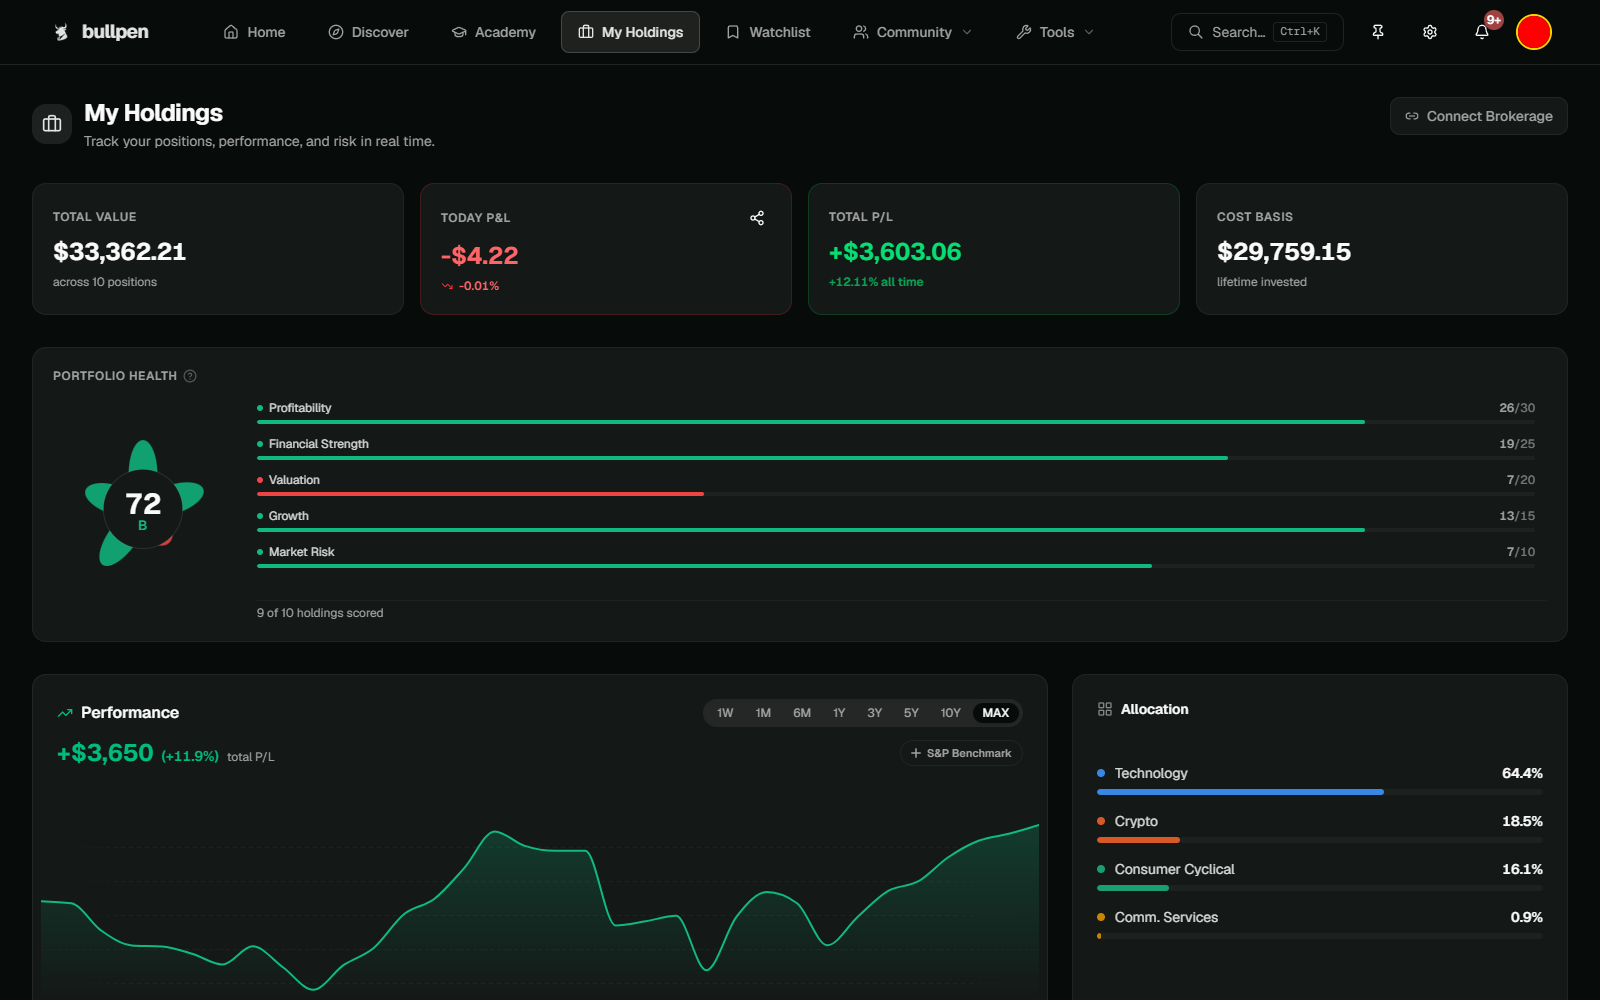
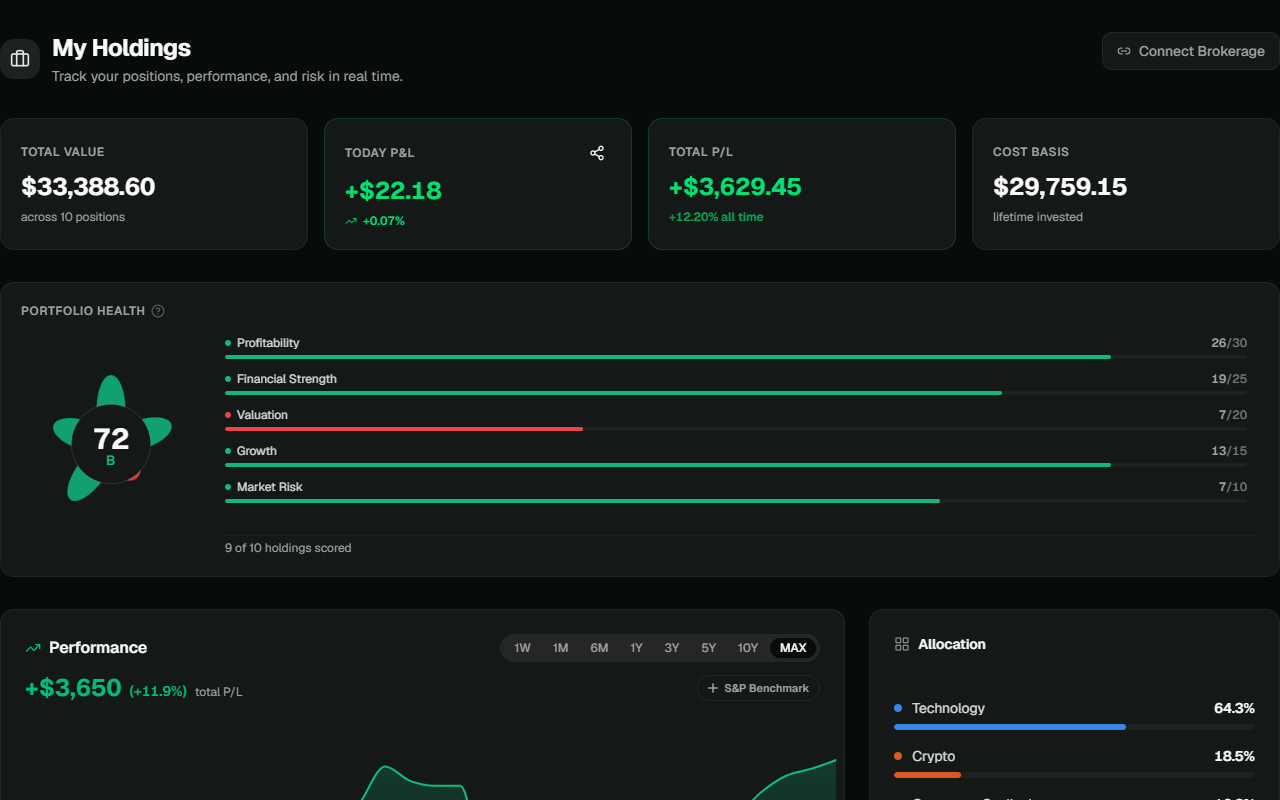
feat(landing): recapture the screenshots without app chrome, and larger
The first set was shot at 1600x1000 (one at 1920x1200) with the full app
navigation in frame. Displayed at ~640px in a feature row, that put every
label at roughly 40% scale, so the shots read as grey texture rather than as
a product: you could see there was a screen, not what was on it.

Recaptured all nine at 1280x800, with the top nav, the floating Ask Bull
launcher, and the stock page's section rail hidden. Two consequences worth
recording in the README, because both cost time:

- The section rail has to go with visibility:hidden, not display:none. It is
  a grid column, and removing it collapses the main content into a narrow
  strip down the left edge. The blank gutter it leaves reads as margin.
- The screener's unfiltered S&P 500 view had a blank price for AAPL at
  capture time. Applying the High Health preset avoided it and makes a better
  shot anyway, since it shows the tool filtering rather than just listing.

Also fixes the feature rows rendering at two different widths. `order` moves
a grid item to a different cell but does not move the track sizing with it,
so flipping the odd rows dropped every second capture into the 1fr track:
the four screenshots came out 606 / 526 / 606 / 526 at 1440.

diff --git a/components/landing/landing-styles.css b/components/landing/landing-styles.css
@@ -66,7 +66,6 @@
      --surface but measured 4.42:1 on --surface-2, e.g. the hero's
      "Why Today" bubble list items, confirmed via an axe-core scan). */
   --fg-dim: oklch(0.64 0.01 162);
-  --grid: oklch(1 0 0 / 0.04);
 
   background: var(--bg);
   color: var(--fg);
@@ -114,7 +113,6 @@
      It only passed on plain white, which is the one background those labels
      are rarely on. 0.50 measures 6.01 / 5.51 / 5.04 on bg / bg-2 / surface-2. */
   --fg-dim: oklch(0.50 0 0);
-  --grid: oklch(0 0 0 / 0.045);
 }
 
 /* Logo mark swap (BullPenMark, components/landing/Atoms.tsx) — deliberately
@@ -147,7 +145,13 @@
   color: var(--fg);
 }
 
-/* Page atmosphere — radial spotlights + faint grid */
+/* Page atmosphere — radial spotlights.
+   There used to be a `.page-grid` layer here too: two hairline gradients tiled
+   on a fixed 64px cell, radially masked behind the hero. It was removed because
+   it aligned to nothing and measured nothing — it was texture for its own sake,
+   and a two-axis hairline grid is one of the more recognisable generated-landing-
+   page tells. Compared side by side the page reads cleaner without it and the
+   headline carries more, which is the whole point of a palette this quiet. */
 .bullpen-landing-root .page-bg {
   position: fixed;
   inset: 0;
@@ -158,19 +162,6 @@
     radial-gradient(50% 40% at 90% 8%, oklch(0.6 0.18 270 / 0.18), transparent 65%),
     radial-gradient(80% 60% at 50% 110%, var(--accent-soft), transparent 60%);
   opacity: 0.65;
-}
-
-.bullpen-landing-root .page-grid {
-  position: fixed;
-  inset: 0;
-  pointer-events: none;
-  z-index: 0;
-  background-image:
-    linear-gradient(to right, var(--grid) 1px, transparent 1px),
-    linear-gradient(to bottom, var(--grid) 1px, transparent 1px);
-  background-size: 64px 64px;
-  -webkit-mask-image: radial-gradient(ellipse 70% 60% at 50% 30%, black 30%, transparent 80%);
-          mask-image: radial-gradient(ellipse 70% 60% at 50% 30%, black 30%, transparent 80%);
 }
 
 .bullpen-landing-root .content-layer {
@@ -608,12 +599,18 @@
   gap: 56px;
   align-items: center;
 }
+/* The track sizes have to flip with the items. `order` only changes which cell
+   each child lands in, not how wide that cell is, so flipping the order alone
+   dropped every second screenshot into the 1fr track and rendered the four
+   captures at alternating widths (606px / 526px at 1440). */
+.bullpen-landing-root .feat-row[data-flip='true'] { grid-template-columns: 1.15fr 1fr; }
 .bullpen-landing-root .feat-row[data-flip='true'] .feat-row-copy { order: 2; }
 .bullpen-landing-root .feat-row[data-flip='true'] .feat-row-shot { order: 1; }
 
 @media (max-width: 900px) {
   .bullpen-landing-root .feat-rows { gap: 64px; }
-  .bullpen-landing-root .feat-row {
+  .bullpen-landing-root .feat-row,
+  .bullpen-landing-root .feat-row[data-flip='true'] {
     grid-template-columns: 1fr;
     gap: 24px;
   }

diff --git a/components/landing/Peek.tsx b/components/landing/Peek.tsx
@@ -179,8 +179,8 @@ export function Peek({ shots }: { shots: Shot[] }) {
                 <Image
                   src={`/screenshots/${active.file}`}
                   alt={active.alt}
-                  width={1600}
-                  height={1000}
+                  width={1280}
+                  height={800}
                   sizes="(max-width: 1240px) 100vw, 1200px"
                   style={{ width: '100%', height: 'auto', display: 'block' }}
                 />

diff --git a/components/landing/Features.tsx b/components/landing/Features.tsx
@@ -114,8 +114,8 @@ function Shot({ file, alt, priority }: { file: string; alt: string; priority: bo
       <Image
         src={`/screenshots/${file}`}
         alt={alt}
-        width={1600}
-        height={1000}
+        width={1280}
+        height={800}
         priority={priority}
         sizes="(max-width: 900px) 100vw, 640px"
         style={{ width: '100%', height: 'auto', display: 'block' }}

diff --git a/public/screenshots/README.md b/public/screenshots/README.md
@@ -28,23 +28,35 @@ by both:
 
 ## Capture settings
 
-- **Viewport `1600 x 1000`.** Any 16:10 viewport works (`why-today.png` is
-  1920x1200 because the stock page's side panel squeezes the top nav at 1600 —
-  see below), but the aspect ratio must stay 16:10 or the Peek tab strip jumps
-  height as you switch tabs.
+- **Viewport `1280 x 800`.** The aspect ratio must stay 16:10 across every file
+  or the Peek tab strip jumps height as you switch tabs. 1280 rather than 1600
+  is deliberate: each capture is displayed at roughly 640px (Features) or
+  1190px (Peek), so a 1600px source renders everything at ~40% and the text
+  turns to mush. 1280 is the widest source that still keeps labels readable at
+  the sizes these are actually shown at.
 - **Dark theme.** The app is dark by default and the landing page is light, so
   the captures read as screens rather than as part of the page. Do not switch
   the app to light to match the landing page.
+- **Strip the app navigation.** These shots exist to show content, not chrome.
+  Hide the top nav and the floating Ask Bull launcher (which otherwise clips
+  whatever card is under it, reading as a rendering bug in a still image):
+  ```js
+  document.head.insertAdjacentHTML('beforeend', '<style>' +
+    'header,[role="banner"]{display:none!important}' +
+    '[class*="fixed"][class*="bottom-"][class*="right-"]{display:none!important}' +
+    'main{padding-top:0!important}</style>');
+  ```
+  On stock pages also hide the left section rail and the Back link. Use
+  `visibility:hidden`, **not** `display:none` — the rail is a grid column, and
+  removing it collapses the main content into a narrow strip. The blank gutter
+  it leaves reads as margin.
 - Capture the **content area only** — `Peek` draws its own browser chrome
   (traffic lights + URL bar), so a shot including a real browser frame looks
   doubled.
-- **Hide the floating Ask Bull launcher** before capturing. It sits over the
-  bottom-right corner and clips whatever card is under it, which reads as a
-  rendering bug in a still image:
-  ```js
-  document.head.insertAdjacentHTML('beforeend',
-    '<style>[class*="fixed"][class*="bottom-"][class*="right-"]{display:none!important}</style>');
-  ```
+- **Check every number rendered.** The screener's unfiltered S&P 500 view had a
+  blank price for AAPL at capture time; applying the High Health preset both
+  avoided it and made a better shot, because it shows the tool filtering rather
+  than just listing.
 - Let live data finish loading. Empty skeletons photograph badly, and the
   holdings page in particular can 429 on first load with a large portfolio
   (10 simultaneous `MAX`-range candle requests) — reload and re-check that the
